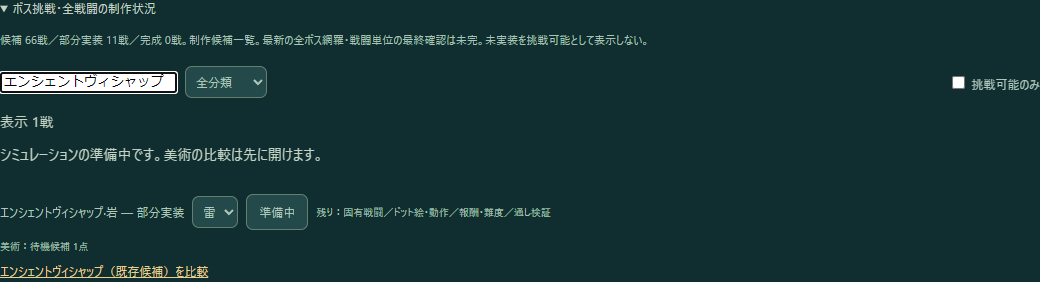
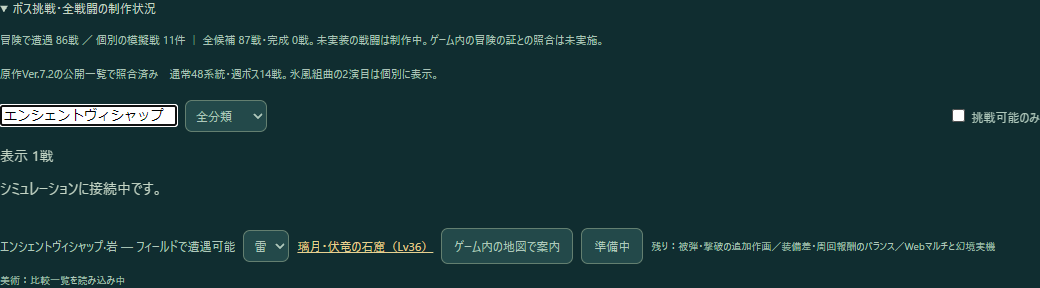
Keep encounter map links usable while art comparisons load (#83)

diff --git a/encounters-ui.js b/encounters-ui.js
@@ -7,7 +7,12 @@ async function initEncounters(){
  try{
   const response=await fetch('content/encounters.json');if(!response.ok)throw Error(response.status);
   const data=await response.json(),note=document.createElement('p');note.className='note';
-  note.textContent=`候補 ${data.counts.encounter_candidates}戦／部分実装 ${data.counts.partial}戦／完成 ${data.counts.complete}戦。${data.warning}`;panel.append(note);
+  const stageFor=row=>row.weeklyNode||row.fieldNode||row.stygianNode;
+  const active=data.encounters.filter(row=>!row.suspendedRegion);
+  const adventures=active.filter(row=>stageFor(row)).length;
+  const trials=active.filter(row=>row.action).length;
+  note.textContent=`冒険で遭遇 ${adventures}戦 ／ 個別の模擬戦 ${trials}件 ｜ 全候補 ${data.counts.encounter_candidates}戦・完成 ${data.counts.complete}戦。${data.warning}`;
+  panel.append(note);
   if(data.roster_review){
    const review=data.roster_review,scope=document.createElement('p');scope.className='note';
    scope.textContent=`原作Ver.${review.game_version}の公開一覧で照合済み　通常${review.field_boss_families}系統・週ボス${review.weekly_challenges}戦。氷風組曲の2演目は個別に表示。`;
@@ -15,13 +20,9 @@ async function initEncounters(){
    panel.append(scope);
   }
   const galleries=Object.entries(encounterArtGalleries);
-  const results=await Promise.allSettled(galleries.map(async ([,gallery])=>{
-   const response=await fetch(gallery.catalog);if(!response.ok)throw Error(response.status);
-   const data=await response.json();if(!Array.isArray(data.items))throw Error('Invalid gallery');return data.items;
-  }));
-  const catalogs=Object.fromEntries(galleries.map(([key],i)=>[key,results[i].value??null]));
-  const failed=galleries.filter(([key])=>catalogs[key]===null).map(([,gallery])=>gallery.label);
-  if(failed.length){const warning=document.createElement('p');warning.className='note';warning.textContent=`${failed.join('・')}の美術一覧を読み込めませんでした。戦闘の制作状況と挑戦操作は利用できます。`;panel.append(warning)}
+  const catalogs={};
+  const artRows=new Map();
+  const galleryNotice=document.createElement('p');galleryNotice.className='note';galleryNotice.hidden=true;panel.append(galleryNotice);
   const controls=document.createElement('div');controls.className='controls';
   const search=document.createElement('input');search.placeholder='ボス名で検索';search.setAttribute('aria-label','ボス名で検索');
   const kind=document.createElement('select');kind.setAttribute('aria-label','ボスの分類');
@@ -29,7 +30,7 @@ async function initEncounters(){
   const playable=document.createElement('input');playable.type='checkbox';playable.id='playableBosses';
   const label=document.createElement('label');label.htmlFor=playable.id;label.append(playable,' 挑戦可能のみ');controls.append(search,kind,label);panel.append(controls);
   const count=document.createElement('p'),list=document.createElement('div');list.style.maxHeight='440px';list.style.overflow='auto';panel.append(count,list);
-  const runtimeNotice=document.createElement('p');runtimeNotice.setAttribute('role','status');runtimeNotice.textContent='シミュレーションの準備中です。美術の比較は先に開けます。';list.before(runtimeNotice);
+  const runtimeNotice=document.createElement('p');runtimeNotice.setAttribute('role','status');runtimeNotice.textContent='シミュレーションに接続中です。';list.before(runtimeNotice);
   const runtimeReady=()=>typeof window.lab?.action==='function';
   function updateReadiness(){
    const ready=runtimeReady();runtimeNotice.hidden=ready;
@@ -37,15 +38,53 @@ async function initEncounters(){
    for(const button of list.querySelectorAll('[data-boss-route]'))button.disabled=!ready;
   }
   window.addEventListener('lab-ready',updateReadiness);
+  function paintArt(art,encounter){
+   art.replaceChildren();
+   const references=encounterArtReferences(encounter);
+   const keys=new Set(references.map(ref=>ref.gallery??'bosses'));
+   const waiting=[...keys].some(key=>catalogs[key]===undefined);
+   const missing=[...keys].some(key=>catalogs[key]===null);
+   const items=encounterArtItems(encounter,catalogs);
+   const status=document.createElement('small');status.style.flexBasis='100%';
+   if(items.length){
+    status.textContent=`美術：待機候補 ${items.length}点`;
+    if(items.some(item=>item.gallery==='characters'))status.textContent+='（同行キャラの待機絵を共用）';
+    if(waiting)status.textContent+=' ｜ 続きを読み込み中';
+    if(missing)status.textContent+=' ｜ 一部の一覧を取得できません';
+   }else if(waiting)status.textContent='美術：比較一覧を読み込み中';
+   else if(missing)status.textContent='美術：一覧を取得できません';
+   else status.textContent='美術：比較素材の登録なし';
+   art.append(status);
+   for(const item of items){
+    const link=document.createElement('a');link.textContent=item.name+'を比較';link.href=item.page+'?'+new URLSearchParams({id:item.id});link.target='_blank';link.rel='noopener';art.append(link);
+   }
+  }
+  async function loadGallery(key,gallery){
+   try{
+    const response=await fetch(gallery.catalog);
+    if(!response.ok)throw Error(response.status);
+    const data=await response.json();
+    if(!Array.isArray(data.items))throw Error('Invalid gallery');
+    catalogs[key]=data.items;
+   }catch{
+    catalogs[key]=null;
+   }
+   const failed=galleries.filter(([name])=>catalogs[name]===null).map(([,item])=>item.label);
+   galleryNotice.hidden=failed.length===0;
+   if(failed.length)galleryNotice.textContent=`${failed.join('・')}の美術一覧を読み込めませんでした。戦闘情報と地図の案内を利用できます。`;
+   for(const [encounter,art] of artRows){
+    if(encounterArtReferences(encounter).some(ref=>(ref.gallery??'bosses')===key))paintArt(art,encounter);
+   }
+  }
   function render(){
    const query=search.value.trim().normalize('NFKC');
    const rows=data.encounters.filter(r=>(kind.value==='all'||r.kind===kind.value)&&(!playable.checked||
-    !r.suspendedRegion&&(r.action||r.fieldNode||r.weeklyNode||r.stygianNode))
+    !r.suspendedRegion&&(r.action||stageFor(r)))
     &&[r.name,...(r.aliases??[])].some(name=>name.normalize('NFKC').includes(query)));
-   count.textContent=`表示 ${rows.length}戦`;list.replaceChildren();
+   count.textContent=`表示 ${rows.length}戦`;list.replaceChildren();artRows.clear();
    for(const r of rows){
     const available=!r.suspendedRegion;
-    const bossStage=r.weeklyNode||r.fieldNode||r.stygianNode;
+    const bossStage=stageFor(r);
     const row=document.createElement('div');row.className='controls';row.dataset.encounter=r.id;
     const text=document.createElement('span');text.textContent=`${r.name} — ${!available?'現行の冒険では休止中':r.weeklyNode?'週ボス挑戦へ接続済み':r.fieldNode?'フィールドで遭遇可能':r.stygianNode?'幽境の受付で挑戦可能':r.status==='partial'?'部分実装':'未実装'}`;
     const button=document.createElement('button');button.textContent=r.action?'試作に挑戦':'制作中';button.disabled=!r.action;if(r.action)button.dataset.runtimeAction=r.action;if(r.fieldNode)button.dataset.fieldAlso='1';
@@ -74,21 +113,13 @@ async function initEncounters(){
     if(available&&(r.action||!bossStage))row.append(button);
     row.append(detail);
     const art=document.createElement('div');art.className='encounter-art';art.style.cssText='flex-basis:100%;display:flex;flex-wrap:wrap;gap:8px 16px;overflow-wrap:anywhere;line-height:1.6';
-    const items=encounterArtItems(r,catalogs);
-    const missing=encounterArtReferences(r).some(ref=>catalogs[ref.gallery??'bosses']===null);
-    const status=document.createElement('small');status.style.flexBasis='100%';
-    status.textContent=items.length?`美術：待機候補 ${items.length}点`:'美術：比較素材の登録なし';
-    if(missing)status.textContent=items.length?status.textContent+'（一部の一覧を取得できません）':'美術：一覧を取得できません';
-    else if(items.some(item=>item.gallery==='characters'))status.textContent+='（同行キャラの待機絵を共用）';
-    art.append(status);
-    for(const item of items){
-     const link=document.createElement('a');link.textContent=item.name+'を比較';link.href=item.page+'?'+new URLSearchParams({q:item.id});link.target='_blank';link.rel='noopener';art.append(link);
-    }
+    artRows.set(r,art);paintArt(art,r);
     row.append(art);list.append(row);
    }
    updateReadiness();
   }
   search.oninput=render;kind.onchange=render;playable.onchange=render;render();
+  await Promise.all(galleries.map(([key,gallery])=>loadGallery(key,gallery)));
  }catch(error){const p=document.createElement('p');p.textContent='ボス一覧を読み込めませんでした。再読み込みしてください。';panel.append(p);console.error(error)}
 }
 initEncounters();

diff --git a/characters-art.js b/characters-art.js
@@ -138,7 +138,8 @@ try{
  }else{
   const catalog=document.documentElement.dataset.gallery==='bosses'?'boss-art-gallery.json':'character-art-gallery.json';
   const kind=document.documentElement.dataset.gallery==='bosses'?'boss':'character';
-  const filtered=Boolean(new URL(location.href).searchParams.get('q')?.trim());
+  const params=new URL(location.href).searchParams;
+  const filtered=Boolean(params.get('id')?.trim()||params.get('q')?.trim());
   const [packed,{items}]=await Promise.all([json(filtered?'assets/placement-pose-index.json':'assets/'+kind+'-gallery-packed.json'),json('content/'+catalog)]);
   if(filtered)poseStore=galleryPoses(packed,kind);
   if(shoukiOpening)shoukiOpening.data=filtered?packed['weekly/'+shoukiOpening.file]:await json('assets/weekly-packed/'+shoukiOpening.file);
@@ -153,13 +154,16 @@ try{
  const result=document.createElement('p');result.id='searchResults';result.setAttribute('role','status');
  searchControls.append(searchLabel,clear,result);$('cards').before(searchControls);
  const normalize=s=>s.normalize('NFKC').toLocaleLowerCase('ja');
- search.oninput=render;clear.onclick=()=>{search.value='';render();search.focus()};
+ search.oninput=()=>render(true);
+ clear.onclick=()=>{search.value='';render(true);search.focus()};
  const updateUrl=setupGalleryUrl({search,render});
  let renderVersion=0;
- function render(){
+ function render(editingSearch=false){
   const version=++renderVersion,pending=[],missing=new Set();
   updateArenaLinks?.();const terms=normalize(search.value).trim().split(/\s+/u).filter(Boolean);let visible=0;const profile=$('profile').value,zoom=Number($('zoom').value),flip=$('flip').checked;
-  updateUrl();const dimensions=[];
+  updateUrl(editingSearch===true);
+  const exactId=new URL(location.href).searchParams.get('id');
+  const filtered=Boolean(exactId||terms.length),dimensions=[];
   for(const {id,name,right,left,article,h:sheetHeight,rear,detail} of assets){
    const form=id==='shouki'?$('shoukiForm').value:null;
    const arena=form&&form!=='candidate'?shoukiOpening:null;
@@ -170,7 +174,7 @@ try{
    const {data}=arena??(flip&&left?left:right);
    const h=arena?.artHeight??sheetHeight,ratio=data.box[2]/data.box[3],w=h*ratio;
    dimensions.push({id,h,w,ratio,source:data.source??data.sourceImage,...(rear&&{rearSource:rear.data.source??rear.data.sourceImage})});
-   article.hidden=!terms.every(term=>normalize(name+' '+id).includes(term));if(article.hidden)continue;visible++;
+   article.hidden=exactId?id!==exactId:!terms.every(term=>normalize(name+' '+id).includes(term));if(article.hidden)continue;visible++;
    const save=article.querySelector('.save-comparison');
    if(save)save.disabled=true;
    const both=$('compareBoth')?.checked;
@@ -249,8 +253,8 @@ try{
    }
   }result.textContent=visible?`${visible} / ${assets.length}候補を表示`: '該当する素材がありません。名前を短くするか、絞り込みを解除してください。';clear.disabled=!search.value; $('status').textContent=`${visible} / ${assets.length}候補を表示。原画像を変更せず比較しています。`;window.charactersGallery={ready:!missing.size&&!pending.length,count:assets.length,visibleCount:visible,query:search.value,profile,zoom,flip,dimensions};
   if(missing.size||pending.length){
-   if(!terms.length&&[...missing].some(pose=>pose!==shoukiOpening?.data))pending.push(poseStore.all());
-   for(const pose of missing)if(terms.length||pose===shoukiOpening?.data)pending.push(poseStore.load(pose));
+   if(!filtered&&[...missing].some(pose=>pose!==shoukiOpening?.data))pending.push(poseStore.all());
+   for(const pose of missing)if(filtered||pose===shoukiOpening?.data)pending.push(poseStore.load(pose));
    Promise.all(pending).then(()=>{
     if(version!==renderVersion)return;
     if(missing.size)render();else window.charactersGallery.ready=true;

diff --git a/gallery-url.js b/gallery-url.js
@@ -9,16 +9,18 @@ export function setupGalleryUrl({search,render}){
  function restore(){
   const params=new URL(location.href).searchParams;
   if(pixels)pixels.checked=params.get('pixels')==='1';
-  search.value=params.get('q')??'';
+  search.value=params.get('id')??params.get('q')??'';
   profile.value=allowed(profile,params.get('profile'),'h32c16');
   if(arena)arena.value=allowed(arena,params.get('arena'),'shouki-godmaking-arena');
   zoom.value=allowed(zoom,params.get('zoom'),'2');
   flip.checked=params.get('flip')==='1';
   if(both){both.checked=params.get('both')==='1';profile.disabled=both.checked}
  }
- function update(){
+ function update(editingSearch=false){
   const url=new URL(location.href);
-  for(const [key,value,defaultValue] of [['q',search.value,''],['profile',profile.value,'h32c16'],['zoom',zoom.value,'2'],['flip',flip.checked?'1':'0','0']]){
+  if(editingSearch)url.searchParams.delete('id');
+  const exactId=url.searchParams.get('id');
+  for(const [key,value,defaultValue] of [['q',exactId?'':search.value,''],['profile',profile.value,'h32c16'],['zoom',zoom.value,'2'],['flip',flip.checked?'1':'0','0']]){
    if(value===defaultValue)url.searchParams.delete(key);else url.searchParams.set(key,value);
   }
   if(arena){if(arena.value==='shouki-godmaking-arena')url.searchParams.delete('arena');else url.searchParams.set('arena',arena.value)}
@@ -28,7 +30,7 @@ export function setupGalleryUrl({search,render}){
   if(url.href!==location.href)history.replaceState(history.state,'',url.href);
  }
  restore();
- if(arena)arena.addEventListener('change',update);
+ if(arena)arena.addEventListener('change',()=>update());
  window.addEventListener('popstate',()=>{restore();render()});
  return update;
 }

diff --git a/CHAT_HANDOFF.md b/CHAT_HANDOFF.md
@@ -1,5 +1,9 @@
 # ChatGPTへの引き継ぎ
 
+## ボス一覧で比較画像の読み込み中も地図へ案内
+
+全87件を表示し、冒険に接続する86件の地図案内と、個別に試せる11件の模擬戦を利用できる。画像の一覧はそれぞれ読み込み、遅延中もボス名の検索や元素の選択を続けられる。美術リンクからは指定の素材だけを開き、検索欄を編集すると候補を広げられる。Chromeで美術一覧の遅延と503応答、地図への案内、ファルカの起動、同名の別ポーズがある素材、390px幅を確認した。 [読み込みの検査](evidence/encounter-readiness-test.json) ／ [美術リンクの検査](evidence/encounter-art-test.json)
+
 ## 現行マップの標準ルートをLv160まで再計測
 
 モンドLv1から白虹峠の終着駅Lv160まで、7回のセーブ受け渡しをSHA-256で照合し、依頼51件を報告した。Lua内は合計11.70時間、うち狩り10.58時間、その他1.13時間。Lv160までの設計は27.50時間で、そのうちその他の行程は15.23時間を見込んでいる。討伐速度だけを設計値に換算した場合は12.43時間。短縮の大部分は、試走で移動・依頼・装備整理などにかかった時間の差にある。 [セーブと各帯の計測結果](evidence/standard-campaign-through-lv160.json)
